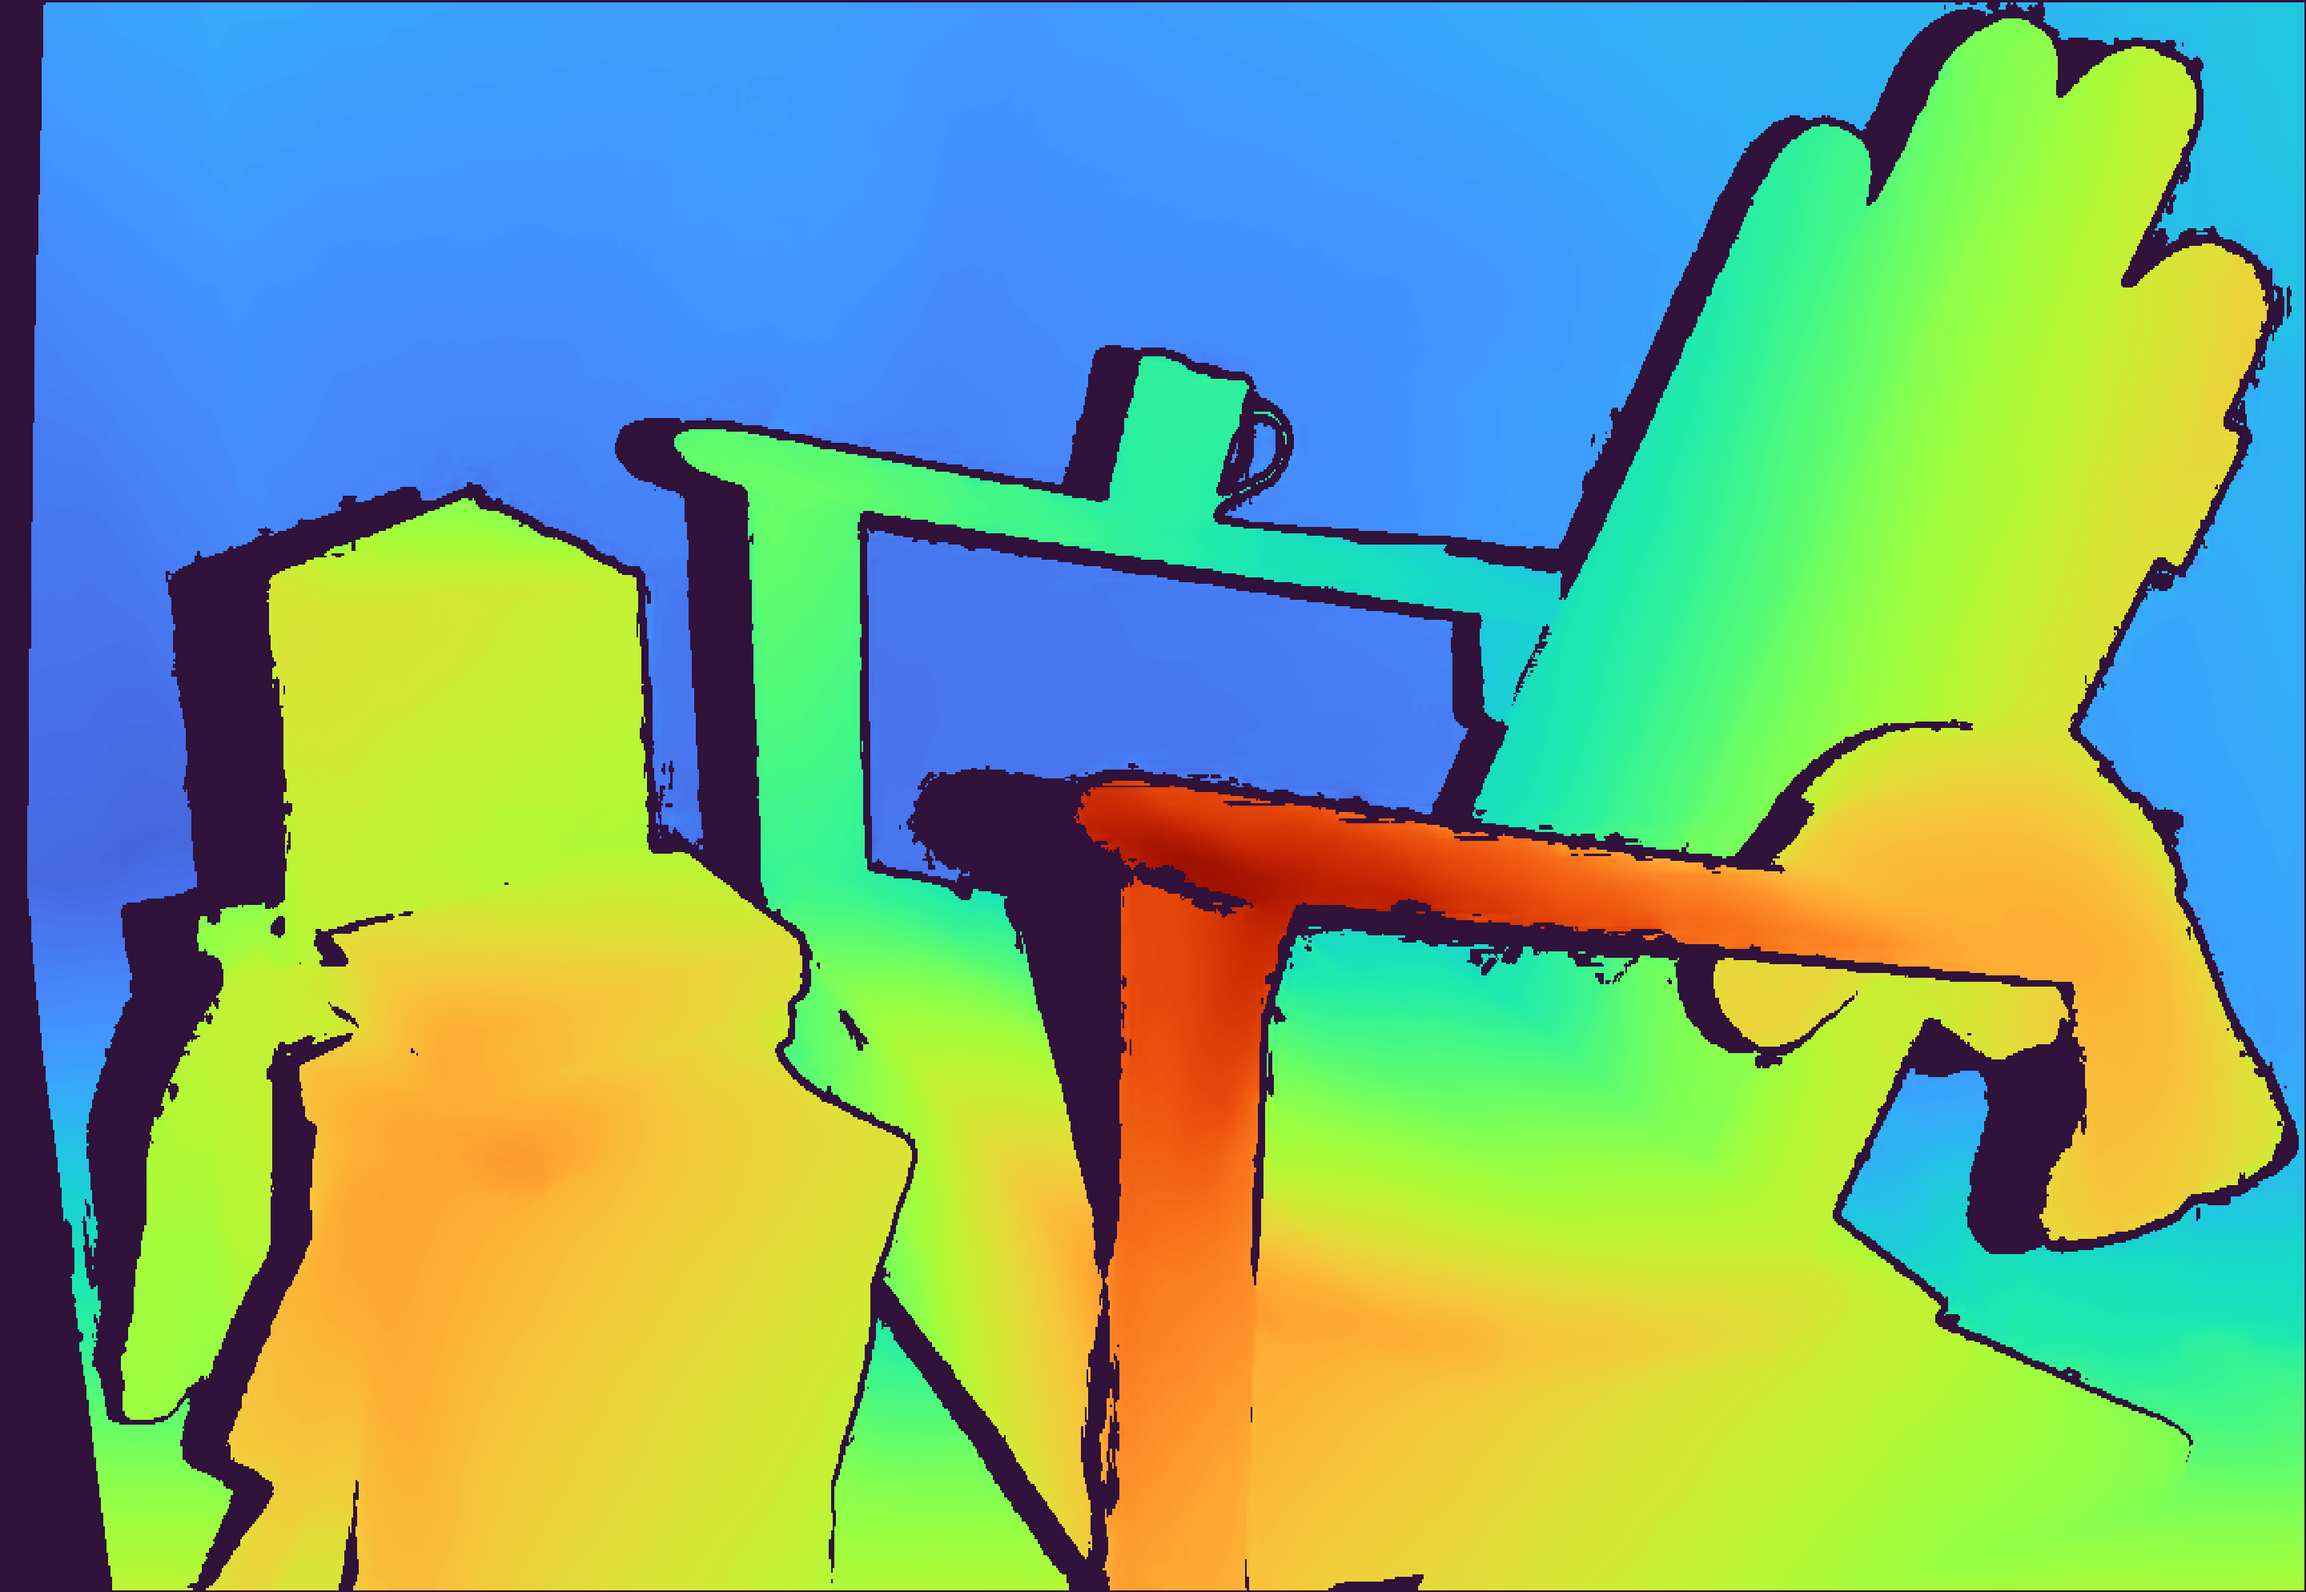
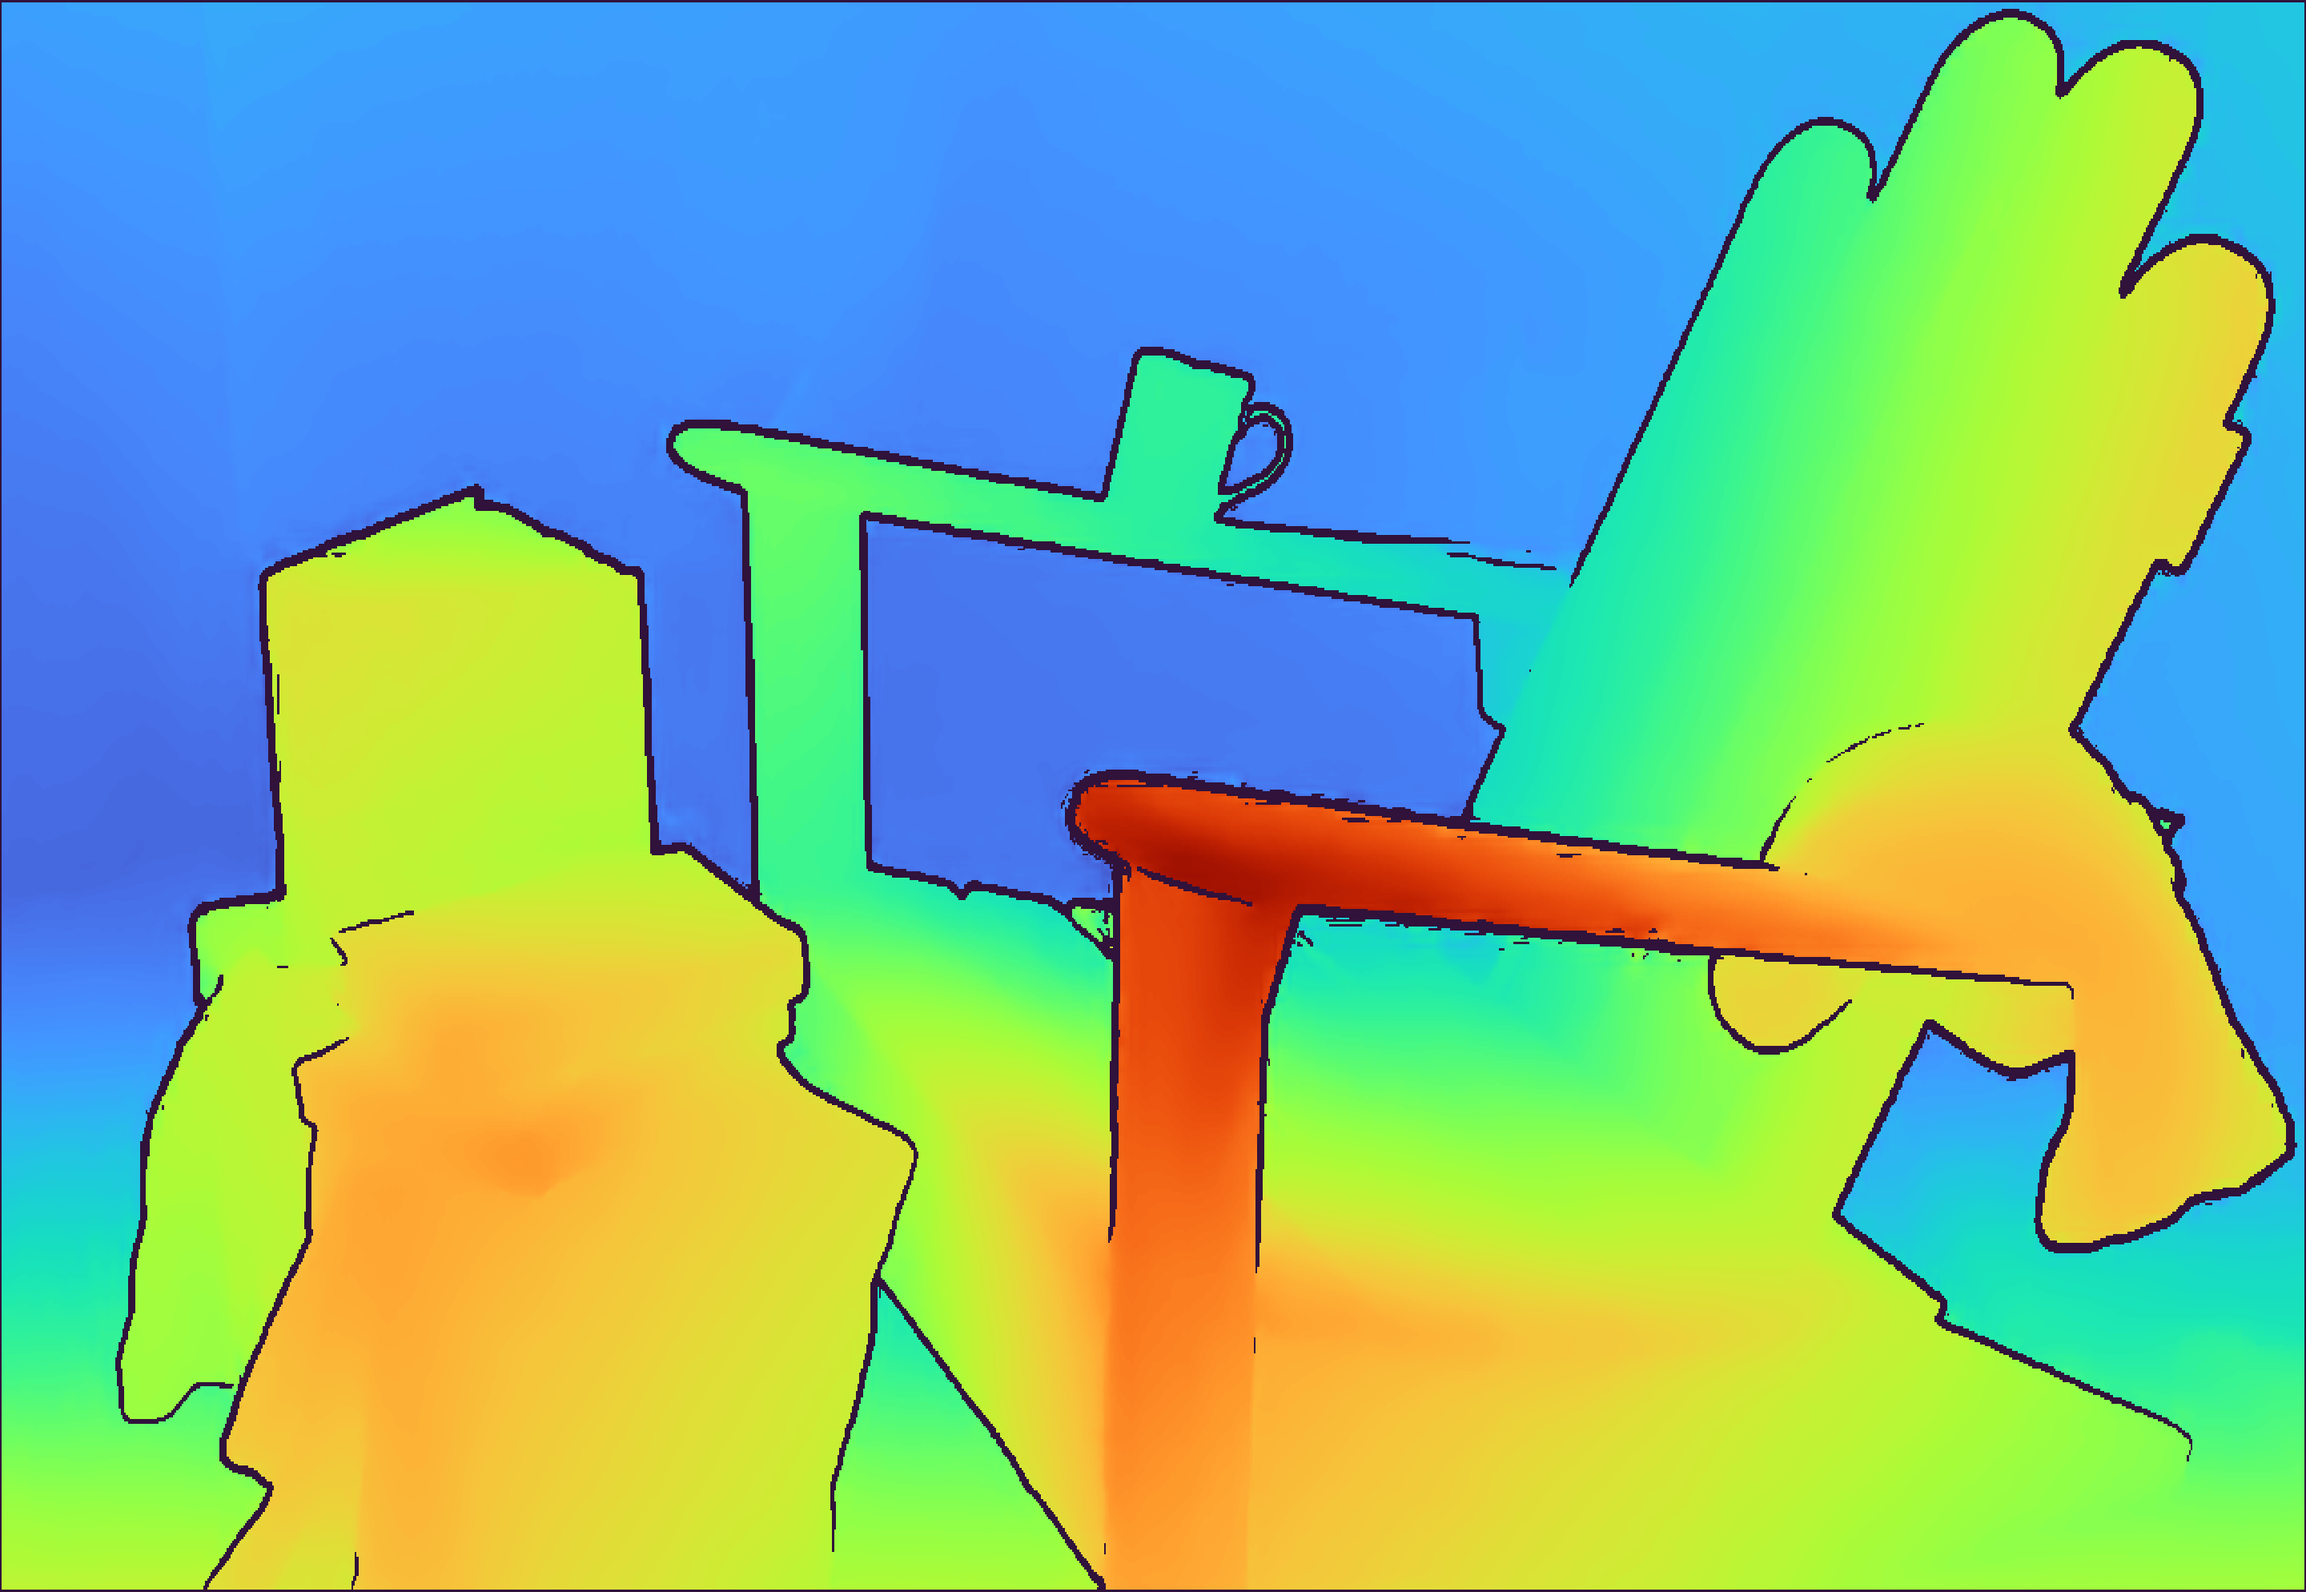
main.cpp: Refactor pipeline processing to use standard pipeline and add disparity colorization

diff --git a/main.cpp b/main.cpp
@@ -16,7 +16,7 @@ int main(int argc, char **argv)
     std::string left_path = argv[1];
     std::string right_path = argv[2];
 
-    retinify::tools::StereoMatchingPipeline pipeline;
+    retinify::Pipeline pipeline;
 
     cv::Mat leftImage = cv::imread(left_path);
     cv::Mat rightImage = cv::imread(right_path);
@@ -26,7 +26,8 @@ int main(int argc, char **argv)
         return 1;
     }
 
-    cv::Mat disparity;
+    cv::Mat disparity = cv::Mat::zeros(leftImage.size(), CV_32FC1);
+    cv::Mat disparityColored = cv::Mat::zeros(leftImage.size(), CV_8UC3);
 
     auto statusInitialize = pipeline.Initialize(leftImage.rows, leftImage.cols);
     if (!statusInitialize.IsOK())
@@ -35,15 +36,23 @@ int main(int argc, char **argv)
         return 1;
     }
 
-    auto statusRun = pipeline.RunWithLeftRightConsistencyCheck(leftImage, rightImage, disparity, 5.0F);
+    auto statusRun = pipeline.Run(leftImage.ptr<uint8_t>(), leftImage.step[0], rightImage.ptr<uint8_t>(), rightImage.step[0], disparity.ptr<float>(), disparity.step[0]);
     if (!statusRun.IsOK())
     {
-        retinify::LogError("Failed to process the pipeline.");
+        retinify::LogError("Failed to run the pipeline.");
         return 1;
     }
 
-    cv::imshow("disparity", retinify::tools::ColorizeDisparity(disparity, 256));
-    cv::imwrite("disparity.png", retinify::tools::ColorizeDisparity(disparity, 256));
+    auto statusColorize = retinify::ColorizeDisparity(disparity.ptr<float>(), disparity.step[0], disparityColored.ptr<uint8_t>(), disparityColored.step[0], disparity.rows, disparity.cols, 256.0F);
+    if (!statusColorize.IsOK())
+    {
+        retinify::LogError("Failed to colorize the disparity map.");
+        return 1;
+    }
+
+    cv::cvtColor(disparityColored, disparityColored, cv::COLOR_RGB2BGR);
+    cv::imshow("disparity", disparityColored);
+    cv::imwrite("disparity.png", disparityColored);
     cv::waitKey(0);
 
     return 0;
